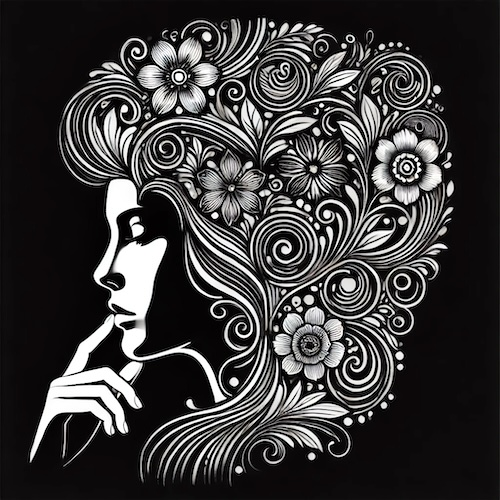
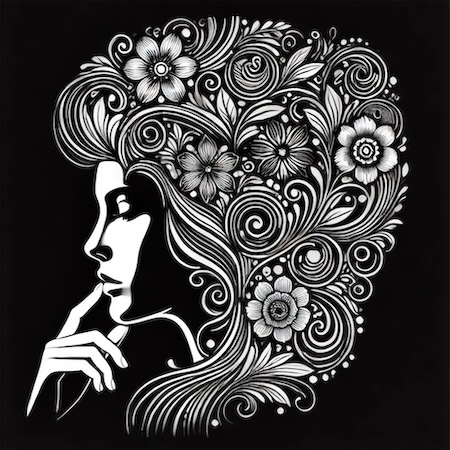
move the good stuff above the fold

diff --git a/themes/hugoplate/layouts/index.html b/themes/hugoplate/layouts/index.html
@@ -2,88 +2,84 @@
   <!-- Banner -->
   {{ with .Params.banner }}
   <style>
-    .thought-bubble {
-        position: relative;
-        background: #fff;
-        border-radius: 30px;
-        padding: 40px;
-        font-size: 1.2em;
-        border: 2px solid #000;
-        display: inline-block;
-        max-width: 800px; /* Increased max-width */
-        min-height: 50px; /* Added min-height for larger bubbles */
-        margin: 0 auto 0px auto; /* Center and add margin-bottom */
-        text-align: center;
-        line-height: 1.4em;
-        box-shadow: 3px 3px 10px rgba(0,0,0,0.2);
-        word-wrap: break-word;
+    /* Override padding for .pt-14 class */
+    .pt-14 {
+      padding-top: 0.1rem !important; /* Override the padding */
     }
-
-    /* .thought-bubble {
+  
+    .thought-bubble {
       position: relative;
-      max-width: 100%;
-      word-wrap: break-word; 
-      box-sizing: border-box;
-      overflow: hidden;
-    } */
-    
+      background: #fff;
+      border-radius: 30px;
+      padding: 30px; /* Reduced padding by ~15% */
+      font-size: 1.02em; /* Reduced font size by ~15% */
+      border: 2px solid #000;
+      display: inline-block;
+      max-width: 680px; /* Reduced max-width by ~15% */
+      min-height: 50px; /* Added min-height for larger bubbles */
+      margin: 0 auto 0px auto; /* Center and add margin-bottom */
+      text-align: center;
+      line-height: 1.4em;
+      box-shadow: 3px 3px 10px rgba(0,0,0,0.2);
+      word-wrap: break-word;
+    }
+  
     /* Mobile-specific styles */
     @media only screen and (max-width: 600px) {
       .thought-bubble {
-        padding: 10px; /* Adjust padding as needed */
-        font-size: 14px; /* Adjust font size for better readability */
+        padding: 8.5px; /* Adjust padding as needed */
+        font-size: 12px; /* Adjust font size for better readability */
         margin: 0 auto; /* Center the thought bubble */
       }
     }
-
+  
     .thought-bubble:before, .thought-bubble:after {
-        content: '';
-        position: absolute;
-        border-style: solid;
+      content: '';
+      position: absolute;
+      border-style: solid;
     }
-
+  
     .thought-bubble:before {
-        width: 30px;
-        height: 30px;
-        border-radius: 50%;
-        bottom: -30px;
-        left: 50%;
-        background: #fff;
-        border: 2px solid #000;
-        margin-left: -15px;
+      width: 25.5px; /* Reduced by 15% */
+      height: 25.5px; /* Reduced by 15% */
+      border-radius: 50%;
+      bottom: -25.5px; /* Reduced by 15% */
+      left: 50%;
+      background: #fff;
+      border: 2px solid #000;
+      margin-left: -12.75px; /* Reduced by 15% */
     }
-
+  
     .thought-bubble:after {
-        width: 15px;
-        height: 15px;
-        border-radius: 50%;
-        bottom: -50px;
-        left: 50%;
-        background: #fff;
-        border: 2px solid #000;
-        margin-left: -7.5px;
+      width: 12.75px; /* Reduced by 15% */
+      height: 12.75px; /* Reduced by 15% */
+      border-radius: 50%;
+      bottom: -42.5px; /* Reduced by 15% */
+      left: 50%;
+      background: #fff;
+      border: 2px solid #000;
+      margin-left: -6.375px; /* Reduced by 15% */
     }
-
+  
     header {
-        text-align: center;
-        position: relative;
+      text-align: center;
+      position: relative;
     }
-
+  
     header img {
-        display: block;
-        margin: 0 auto;
+      display: block;
+      margin: 0 auto;
     }
-
+  
     #thinker {
-        margin-top: -50px; /* Adjust this value to move the thought bubble closer or further from the image */
+      margin-top: -50px; /* Adjust this value to move the thought bubble closer or further from the image */
     }
+  
     .custom-padding {
       padding-top: 0 !important;
       padding-bottom: 0 !important;
-
     }
   </style>
-
     <section class="section pt-14">
       <div class="container">
         <div class="row justify-center">

diff --git a/themes/hugoplate/layouts/partials/essentials/header.html b/themes/hugoplate/layouts/partials/essentials/header.html
@@ -5,7 +5,7 @@
     <div class="order-0">
       <!-- navbar brand/logo -->
       <a class="navbar-brand block" href="{{ site.Home.RelPermalink }}">
-        {{ partial "logo" }}
+        {{ partial "logo" }}     
       </a>
     </div>
     <!-- navbar toggler -->
@@ -27,6 +27,7 @@
     <!-- /navbar toggler -->
 
     <!-- main navbar -->
+    Paul Pereyda Karayan
     <ul
       id="nav-menu"
       class="navbar-nav order-3 hidden lg:flex w-full pb-6 lg:order-1 lg:w-auto lg:space-x-2 lg:pb-0 xl:space-x-8">

diff --git a/themes/hugoplate/assets/plugins/maps/google-map.js b/themes/hugoplate/assets/plugins/maps/google-map.js
@@ -140,7 +140,7 @@ function initialize() {
   var mapOptions = {
     center: nottingham,
     mapTypeId: google.maps.MapTypeId.ROADMAP,
-    backgroundColor: "#000",
+    backgroundColor: "#201e21",
     zoom: 15,
     panControl: !1,
     zoomControl: !0,

diff --git a/themes/hugoplate/assets/scss/navigation.scss b/themes/hugoplate/assets/scss/navigation.scss
@@ -13,6 +13,7 @@ input#nav-toggle:checked ~ #nav-menu {
 
 .header {
   @apply bg-body dark:bg-darkmode-body py-6;
+  padding-bottom: 0; // Remove padding-bottom
 }
 
 // navbar items
